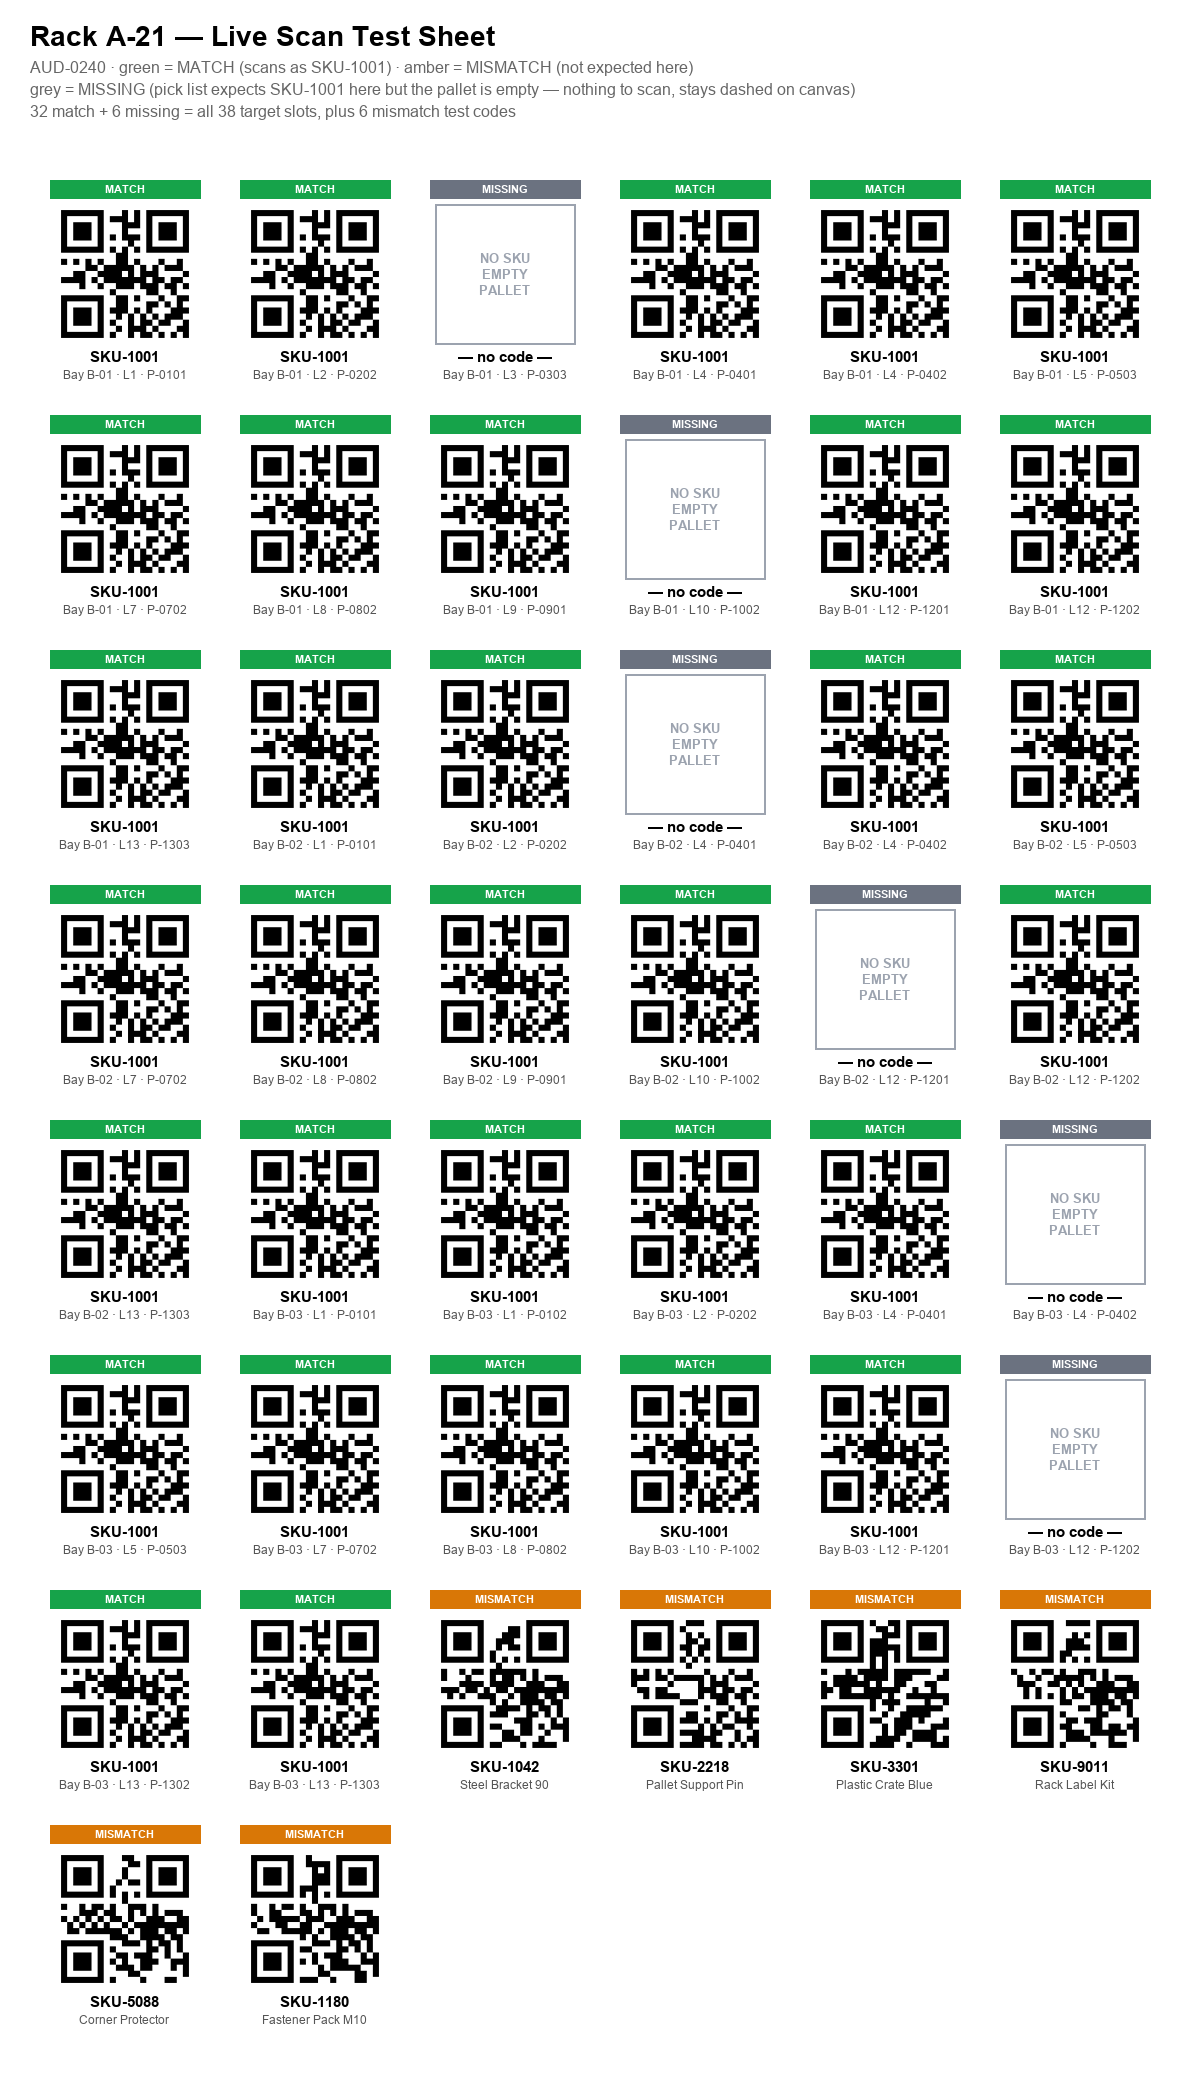
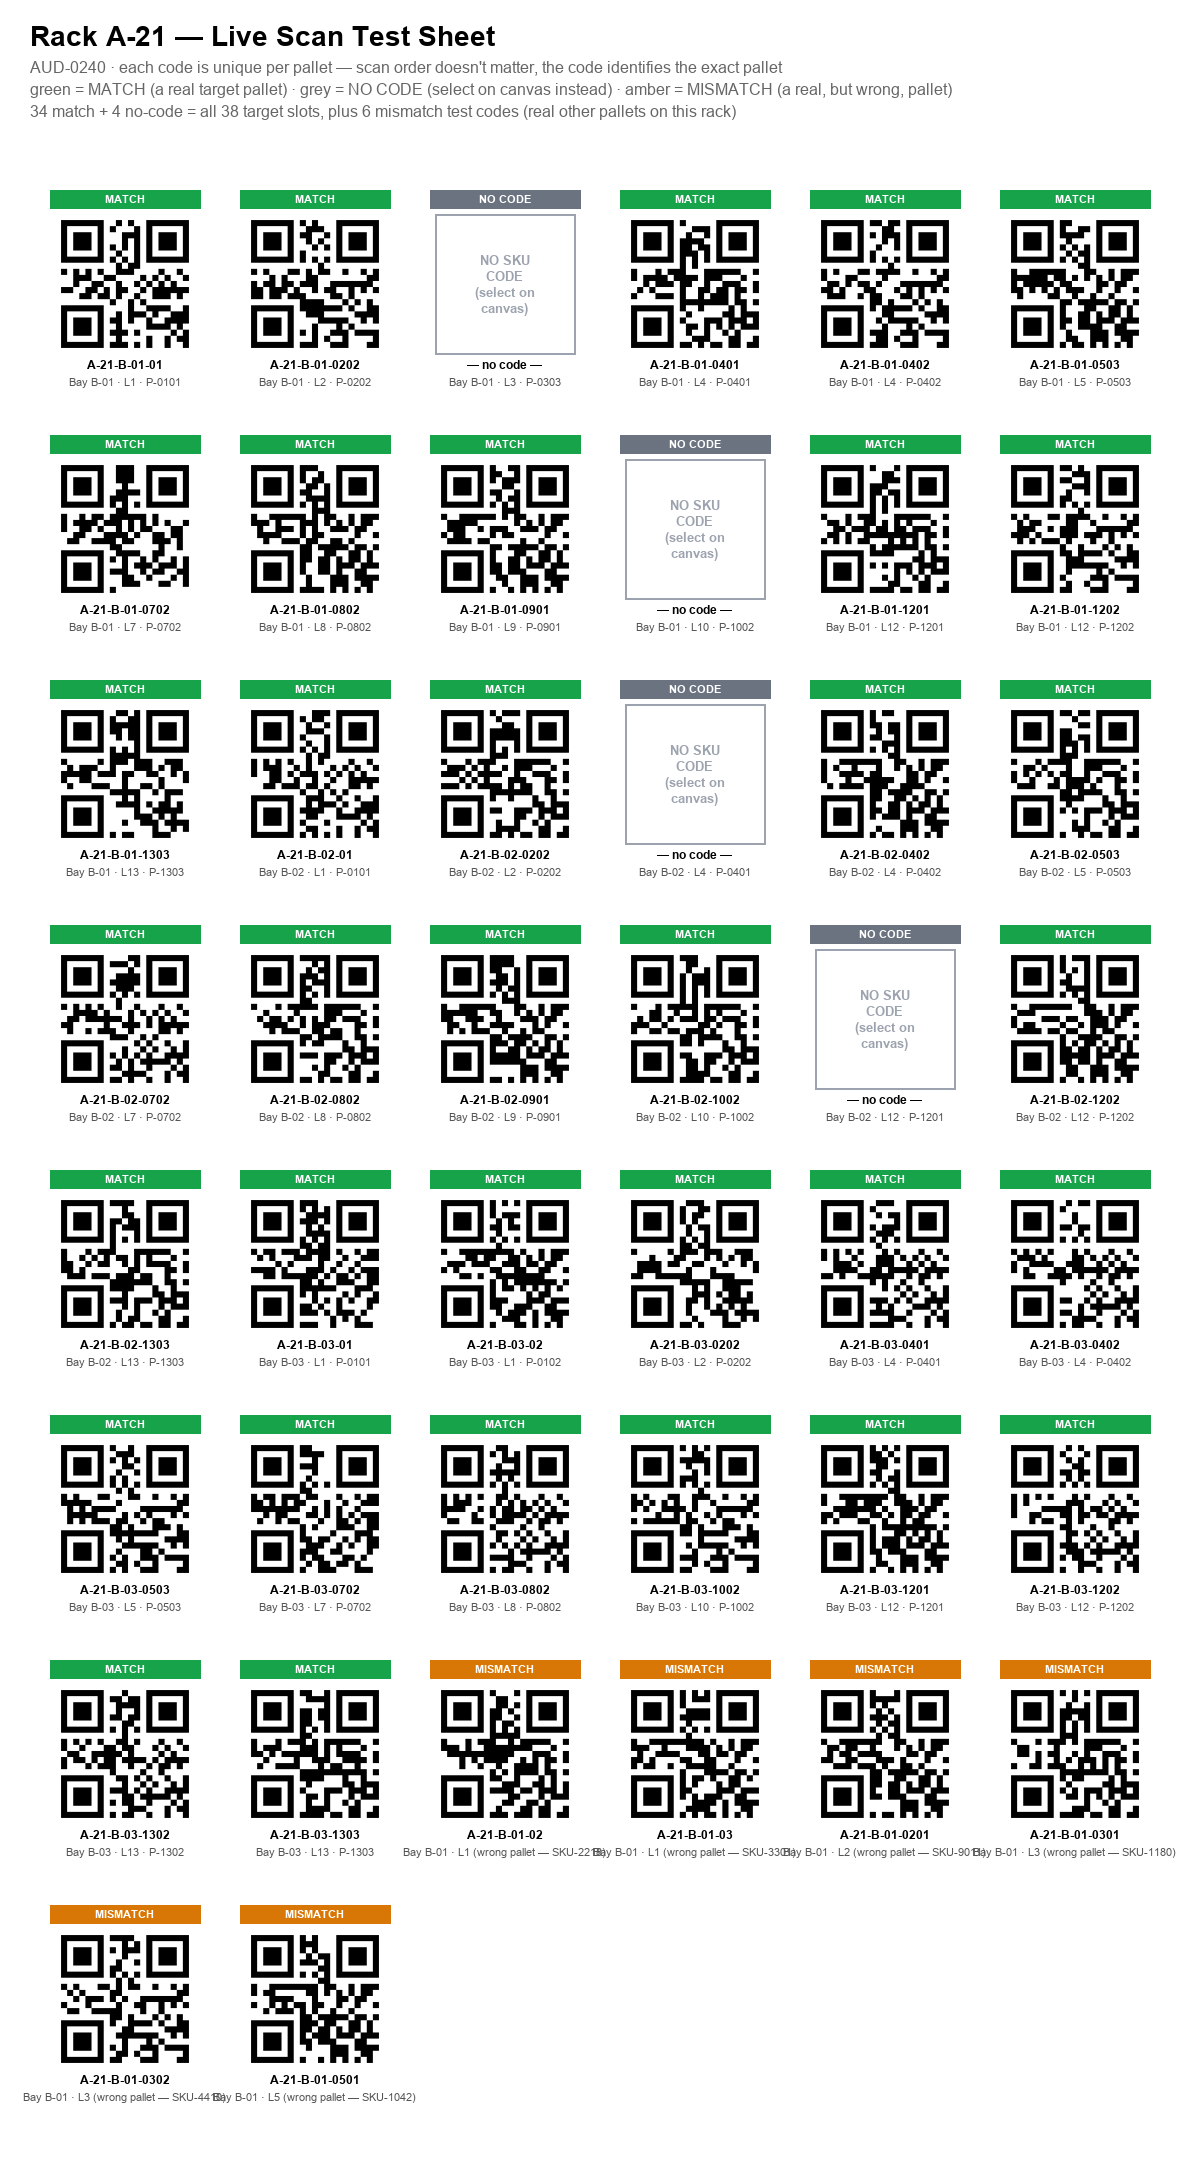
Rack View: scan codes identify the exact pallet, no-code pallets, list rework
- Scanner codes now encode each pallet's own unique location code instead
  of a shared SKU string, so scanning out of order (jumping between bays)
  correctly attributes to the exact physical pallet scanned, not a guessed
  "next in sequence" location. A code matching a target location is
  Matched; a code matching some other real pallet on the rack is Mismatch
  (still a real, identifiable location, not "unresolved").
- Adds NO_CODE_LOCATIONS (mockData.ts): 4 of Rack A-21's 38 target
  locations are known up front to have no physical scanner code at all —
  shown dark gray on canvas immediately (not only after Done), excluded
  from scan resolution, but still tappable — selecting one on the canvas
  surfaces an "Add Evidence — No Code" action to document it directly.
- List rows now show location as the title and SKU as the subtitle.
- Regenerates both Rack A-21 test sheets (in-app overlay + a new 32-code
  print-ready sheet) with the new per-pallet unique codes.

Changed region(s): [[0.0308, 0.0, 0.7092, 0.9641], [0.8325, 0.0933, 0.9558, 0.8708], [0.6783, 0.0933, 0.8017, 0.8708]]

diff --git a/rack-audit-rn/src/features/rack-view/RackViewScreen.tsx b/rack-audit-rn/src/features/rack-view/RackViewScreen.tsx
@@ -15,7 +15,7 @@ import { SkuLineCard } from '@/components/SkuLineCard';
 import type { SheetOption } from '@/components/BottomSheetPicker';
 import { useLocationsTree } from '@/hooks/useLocationsTree';
 import { findLayoutIn, findRackIn } from '@/lib/locationsRepo';
-import { EXPECTED_SKUS, generateWaveformBars, INVENTORY_POOL } from '@/lib/mockData';
+import { EXPECTED_SKUS, generateWaveformBars, INVENTORY_POOL, NO_CODE_LOCATIONS } from '@/lib/mockData';
 import type { Condition, Evidence, EvidenceImage, LocationNode } from '@/lib/types';
 import { useTheme } from '@/theme/ThemeProvider';
 import { useAudits } from '../dashboard/hooks';
@@ -28,9 +28,9 @@ const STATUS_TONE = { 'Not Started': 'To Do', 'In Progress': 'In Progress', Comp
 
 // A single scanned SKU during a Start Audit session. Unlike variation-2's
 // original one-pallet-at-a-time flow, an inspector now scans freely across
-// the whole physical rack — each scan is looked up by SKU against
-// EXPECTED_SKUS to resolve which (if any) not-yet-scanned location it
-// belongs to, since there's no pre-selected pallet to key off.
+// the whole physical rack, in any order — each scanner code is unique per
+// pallet (its own location code), so a scan resolves to the exact physical
+// pallet it came from, not a guessed "next in line" location.
 type SessionScan = {
   id: string;
   locCode: string | null;
@@ -231,6 +231,12 @@ export function RackViewScreen() {
   // highlighted dark; without one, any pallet that has an assigned SKU is
   // (as before) — this is purely cosmetic and separate from selectability.
   const isLocHighlighted = (locCode: string) => (audit.target_sku ? matchesTargetSku(locCode) : (EXPECTED_SKUS[locCode]?.length ?? 0) > 0);
+  // Known up front to have no physical scanner code at all — still one of
+  // the in-scope/expected locations (still selectable, still counted in
+  // totalTargets), but real scanning can never resolve to it, so it's
+  // excluded from scan-claiming and shown dark gray from the start rather
+  // than only once the whole session wraps up.
+  const hasNoCode = (locCode: string) => !!NO_CODE_LOCATIONS[locCode];
   const scannableLocations = rackLocations.filter((l) => isLocSelectable(l.code));
   const totalTargets = scannableLocations.filter((l) => (EXPECTED_SKUS[l.code]?.length ?? 0) > 0).length;
 
@@ -278,12 +284,17 @@ export function RackViewScreen() {
   // scanned) rather than just fading into the background. Each one is
   // still selectable/highlightable on the canvas and can have evidence
   // (photo of the empty slot, a note, etc.) attached, same as a raised
-  // issue. Locations already added this way are excluded from future
-  // scan resolution too — the scan is genuinely over for them.
+  // issue. Locations already known up front to have no code (hasNoCode)
+  // are excluded here — those are handled by manually selecting them on
+  // the canvas (see handleAddMissingEvidence) instead of being swept in
+  // automatically. Locations added this way are excluded from future scan
+  // resolution too — the scan is genuinely over for them.
   const handleStopCamera = () => {
     setCameraActive(false);
     setExpandedScanId(null);
-    const missingLocs = scannableLocations.filter((l) => !scannedLocsRef.current.has(l.code) && (EXPECTED_SKUS[l.code]?.length ?? 0) > 0);
+    const missingLocs = scannableLocations.filter(
+      (l) => !scannedLocsRef.current.has(l.code) && !hasNoCode(l.code) && (EXPECTED_SKUS[l.code]?.length ?? 0) > 0,
+    );
     if (missingLocs.length) {
       const missingEntries: SessionScan[] = missingLocs.map((loc) => {
         scannedLocsRef.current.add(loc.code);
@@ -304,6 +315,36 @@ export function RackViewScreen() {
     }
   };
   const handleResumeCamera = () => setCameraActive(true);
+
+  // For a location known up front to have no code (hasNoCode) — the
+  // inspector taps it directly on the canvas (it's still selectable, just
+  // shown dark gray from the start) and this creates its "Missing" list
+  // entry on demand, opening the session panel straight to its evidence
+  // accordion so a reason/photo can be attached without waiting for a full
+  // scanning pass to finish.
+  const handleAddMissingEvidence = (locCode: string) => {
+    const loc = rackLocations.find((l) => l.code === locCode);
+    if (!loc || scannedLocsRef.current.has(locCode)) return;
+    scannedLocsRef.current.add(locCode);
+    const id = String(scanIdRef.current++);
+    const entry: SessionScan = {
+      id,
+      locCode: loc.code,
+      locLabel: `Bay ${bayCodeForLoc(loc.code)} · ${palletIdFor(loc)}`,
+      sku: EXPECTED_SKUS[loc.code]?.[0]?.sku ?? '—',
+      name: 'No scanner code found at this pallet',
+      lot: '—',
+      qty: 0,
+      condition: 'Good',
+      status: 'missing',
+      issueRaised: false,
+    };
+    setSessionScans((prev) => [entry, ...prev]);
+    setSessionOpen(true);
+    setAuditStarted(true);
+    setCameraActive(false);
+    setExpandedScanId(id);
+  };
   // Every match/mismatch scan already auto-saves the moment it resolves
   // (and Raise Issue saves its own correction), so there's no batch of
   // unsaved data waiting here — Save Audit is the inspector's explicit
@@ -315,55 +356,67 @@ export function RackViewScreen() {
     setExpandedScanId(null);
   };
 
-  // Every scan claims a real physical location, whether it matches or not —
-  // the inspector is standing at some specific pallet when they scan it, so
-  // even a wrong item found there still belongs to that pallet. Claims the
-  // next not-yet-visited in-scope location in canvas order (rather than
-  // trying to guess a location purely from the scanned SKU, which can't
-  // work for a mismatch — nothing expects that SKU anywhere by definition).
-  const nextUnclaimedLocation = (): LocationNode | null => scannableLocations.find((l) => !scannedLocsRef.current.has(l.code)) ?? null;
+  // Every scanner code is unique per physical pallet — its own location
+  // code — not a shared SKU string, specifically so scanning out of order
+  // (Bay 3 right after Bay 1, skipping Bay 2) still attributes correctly
+  // to the exact pallet that was actually scanned, instead of guessing
+  // "whichever's next in some internal order." A code matching one of the
+  // in-scope target locations is a genuine find (matched); a code matching
+  // some OTHER real location on the rack means the wrong pallet was
+  // scanned (mismatch, but still a real, identifiable location) — this
+  // mirrors a real inspector always standing at one specific place.
+  const nextUnclaimedLocation = (): LocationNode | null =>
+    scannableLocations.find((l) => !scannedLocsRef.current.has(l.code) && !hasNoCode(l.code)) ?? null;
 
   const handleSessionScan = async (code: string) => {
-    const sku = code.trim();
-    if (!sku) return;
-    const target = nextUnclaimedLocation();
-    // Claim the location synchronously, before any await, so a second scan
-    // arriving a few milliseconds later (same tick, before React re-renders)
-    // sees it as already taken instead of racing to the same "next
-    // unclaimed" result.
-    if (target) scannedLocsRef.current.add(target.code);
-    const expectedLine = target ? (EXPECTED_SKUS[target.code] ?? []).find((l) => l.sku === sku) : undefined;
+    const scannedCode = code.trim();
+    if (!scannedCode || scannedLocsRef.current.has(scannedCode)) return;
+    // Claim synchronously, before any await, so a second scan arriving a
+    // few milliseconds later (same tick, before React re-renders) can't
+    // race to double-process the same code.
+    scannedLocsRef.current.add(scannedCode);
+
+    const targetLoc = scannableLocations.find(
+      (l) => l.code === scannedCode && !hasNoCode(l.code) && (EXPECTED_SKUS[l.code]?.length ?? 0) > 0,
+    );
+    const loc = targetLoc ?? rackLocations.find((l) => l.code === scannedCode) ?? null;
+    const matched = !!targetLoc;
+    const expectedLine = loc ? EXPECTED_SKUS[loc.code]?.[0] : undefined;
+    const foundLine = loc?.pallets[0]?.lines[0];
+    const sku = matched ? (expectedLine?.sku ?? scannedCode) : (foundLine?.sku ?? scannedCode);
     const known = INVENTORY_POOL.find((p) => p.sku === sku);
+
     const entry: SessionScan = {
       id: String(scanIdRef.current++),
-      locCode: target?.code ?? null,
-      locLabel: target ? `Bay ${bayCodeForLoc(target.code)} · ${palletIdFor(target)}` : null,
+      locCode: loc?.code ?? null,
+      locLabel: loc ? `Bay ${bayCodeForLoc(loc.code)} · ${palletIdFor(loc)}` : null,
       sku,
-      name: expectedLine?.name ?? known?.name ?? 'Unlisted SKU',
-      lot: expectedLine?.lot ?? known?.lot ?? '—',
+      name: matched ? (expectedLine?.name ?? known?.name ?? 'iPhone 15 Box') : (foundLine?.name ?? known?.name ?? 'Unlisted item'),
+      lot: matched ? (expectedLine?.lot ?? known?.lot ?? '—') : (foundLine?.lot ?? known?.lot ?? '—'),
       qty: expectedLine?.qty ?? 1,
       condition: 'Good',
-      status: expectedLine ? 'matched' : 'mismatch',
+      status: matched ? 'matched' : 'mismatch',
       issueRaised: false,
     };
     setSessionScans((prev) => [entry, ...prev]);
-    if (target) {
-      await saveRecord(tree, { auditId, layout, rack: rackCode, bay: bayCodeForLoc(target.code), loc: target.code }, [
+    if (loc) {
+      await saveRecord(tree, { auditId, layout, rack: rackCode, bay: bayCodeForLoc(loc.code), loc: loc.code }, [
         { sku: entry.sku, name: entry.name, lot: entry.lot, qty: entry.qty, condition: entry.condition },
       ]);
     }
   };
 
   const handleSessionSimulate = () => {
-    // Mostly resolve an actual in-scope, not-yet-scanned expected SKU (the
-    // common "found it" case); occasionally simulate an unrelated SKU to
-    // demo the mismatch path too.
+    // Mostly resolve an actual in-scope, not-yet-scanned target location
+    // (the common "found it" case); occasionally simulate scanning some
+    // OTHER real rack location's code to demo the mismatch path too.
     const next = nextUnclaimedLocation();
-    const nextExpected = next ? EXPECTED_SKUS[next.code]?.[0] : undefined;
-    const useMatch = !!nextExpected && simCount % 3 !== 0;
-    const sku = useMatch && nextExpected ? nextExpected.sku : INVENTORY_POOL[simCount % INVENTORY_POOL.length].sku;
+    const useMatch = !!next && simCount % 3 !== 0;
+    const nonTargetLocs = rackLocations.filter((l) => !scannableLocations.some((sl) => sl.code === l.code) && !scannedLocsRef.current.has(l.code));
+    const wrongLoc = nonTargetLocs[simCount % Math.max(nonTargetLocs.length, 1)];
+    const code = useMatch && next ? next.code : wrongLoc ? wrongLoc.code : `UNKNOWN-${simCount}`;
     setSimCount((c) => c + 1);
-    handleSessionScan(sku);
+    handleSessionScan(code);
   };
 
   const updateScan = (id: string, patch: Partial<SessionScan>) => setSessionScans((prev) => prev.map((s) => (s.id === id ? { ...s, ...patch } : s)));
@@ -491,14 +544,20 @@ export function RackViewScreen() {
                                       // vs. a noticeably darker gray + dashed
                                       // once Done has confirmed no code was
                                       // ever found for it (status:'missing').
-                                      const isPending = auditStarted && highlighted && !status;
-                                      const isMissing = status === 'missing' || isPending;
+                                      // Known up front to have no scanner
+                                      // code at all — dark gray from the
+                                      // very start, same look a runtime-
+                                      // confirmed "missing" gets once Done
+                                      // is pressed, not just once pending.
+                                      const noCode = hasNoCode(cell.code);
+                                      const isPending = auditStarted && highlighted && !status && !noCode;
+                                      const isMissing = status === 'missing' || noCode || isPending;
                                       const bg =
                                         status === 'matched'
                                           ? tokens.rag.green.soft
                                           : status === 'mismatch'
                                             ? tokens.rag.amber.soft
-                                            : status === 'missing'
+                                            : status === 'missing' || noCode
                                               ? tokens.slate400
                                               : highlighted
                                                 ? tokens.slate300
@@ -509,7 +568,7 @@ export function RackViewScreen() {
                                           ? tokens.rag.green.border
                                           : status === 'mismatch'
                                             ? tokens.rag.amber.border
-                                            : status === 'missing'
+                                            : status === 'missing' || noCode
                                               ? tokens.mutedForeground
                                               : highlighted
                                                 ? tokens.slate400
@@ -540,7 +599,23 @@ export function RackViewScreen() {
                   </Animated.View>
                 </View>
               </GestureDetector>
-              {!sessionOpen ? (
+              {selectedLoc && hasNoCode(selectedLoc) && !sessionScans.some((s) => s.locCode === selectedLoc) ? (
+                // A known-no-code pallet was tapped directly on the canvas —
+                // give a direct path to document it, instead of requiring a
+                // full scanning pass first.
+                <View style={styles.footerRow}>
+                  <Pressable onPress={() => setSelectedLoc(null)} style={[styles.outlineBtn, styles.footerBtn, { borderColor: tokens.border, borderRadius: tokens.radius.lg }]}>
+                    <Text style={{ color: tokens.foreground, fontWeight: tokens.fontWeight.semibold, fontSize: tokens.text.sm }}>Cancel</Text>
+                  </Pressable>
+                  <Pressable
+                    onPress={() => handleAddMissingEvidence(selectedLoc)}
+                    style={[styles.primaryBtn, styles.footerBtn, { backgroundColor: tokens.mutedForeground, borderRadius: tokens.radius.lg }]}
+                  >
+                    <Ionicons name="camera-outline" size={16} color={tokens.primaryForeground} />
+                    <Text style={{ color: tokens.primaryForeground, fontWeight: tokens.fontWeight.bold, fontSize: tokens.text.sm }}>Add Evidence — No Code</Text>
+                  </Pressable>
+                </View>
+              ) : !sessionOpen ? (
                 <View style={styles.footerRow}>
                   <Pressable onPress={() => setSelectedLoc(null)} style={[styles.outlineBtn, styles.footerBtn, { borderColor: tokens.border, borderRadius: tokens.radius.lg }]}>
                     <Text style={{ color: tokens.foreground, fontWeight: tokens.fontWeight.semibold, fontSize: tokens.text.sm }}>Cancel</Text>
@@ -863,9 +938,11 @@ function ScanRow({ scan, selected, onRaiseIssue, onSelect }: { scan: SessionScan
       style={[styles.scanRow, { borderColor: selected ? tokens.primary : tokens.border, borderWidth: selected ? 2 : 1, borderRadius: tokens.radius.lg, backgroundColor: tokens.card }]}
     >
       <View style={{ flex: 1 }}>
-        <Text style={{ color: tokens.foreground, fontWeight: tokens.fontWeight.bold, fontSize: tokens.text.sm }}>{scan.sku}</Text>
+        <Text style={{ color: tokens.foreground, fontWeight: tokens.fontWeight.bold, fontSize: tokens.text.sm }} numberOfLines={1}>
+          {scan.locLabel ?? 'No pallet left to attribute this to'}
+        </Text>
         <Text style={{ color: tokens.mutedForeground, fontSize: tokens.text.xxs, marginTop: 2 }} numberOfLines={1}>
-          {scan.name} · {scan.locLabel ?? 'No pallet left to attribute this to'}
+          {scan.sku} · {scan.name}
         </Text>
       </View>
       <View style={[styles.scanBadge, { backgroundColor: tone.soft, borderColor: tone.border, borderRadius: tokens.radius.sm }]}>

diff --git a/rack-audit-rn/src/lib/mockData.ts b/rack-audit-rn/src/lib/mockData.ts
@@ -415,6 +415,20 @@ LOCATIONS['AUD-0234'].layouts[0].racks[0].bays.forEach((bay) => {
   });
 }
 
+// Of Rack A-21's 38 target-SKU locations, these 4 are known up front to
+// physically have no scanner code at all (an empty pallet, or one that was
+// never labeled) — real-world "the pick list says it should be here, but
+// there's nothing to scan." Kept separate from EXPECTED_SKUS (which still
+// lists SKU-1001 for these — that's what SHOULD be here) so Rack View can
+// still count them among the 38 in-scope locations while marking them
+// permanently unscannable rather than just "not reached yet."
+export const NO_CODE_LOCATIONS: Record<string, true> = {
+  'A-21-B-01-0303': true,
+  'A-21-B-01-1002': true,
+  'A-21-B-02-0401': true,
+  'A-21-B-02-1201': true,
+};
+
 // The warehouse's master slotting plan — what SKU/quantity is SUPPOSED to be
 // at a location, independent of whatever an inspector actually finds there.
 // Keyed by location code, since a location's slot assignment doesn't vary
